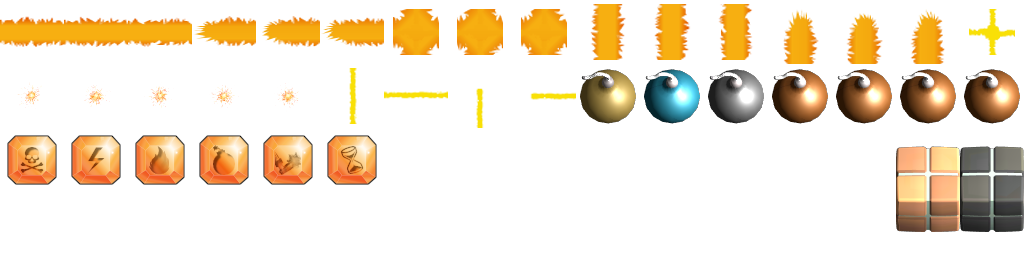
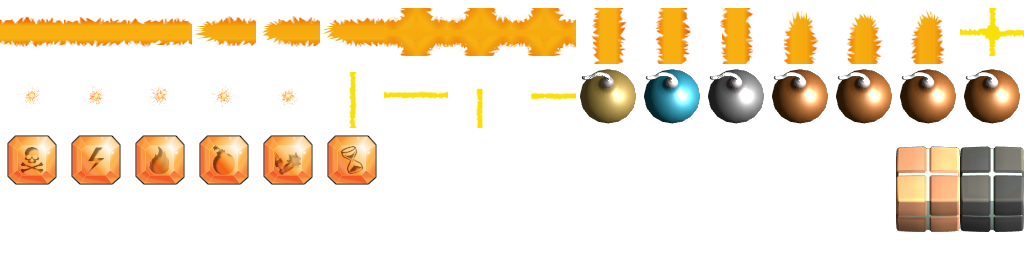
* BombLogic drawing part WIP;

Changed region(s): [[0.375, 0.0, 0.75, 0.25], [0.9375, 0.125, 1.0, 0.1562], [0.3438, 0.4688, 0.375, 0.5]]

diff --git a/src/BombLogic.cpp b/src/BombLogic.cpp
@@ -25,6 +25,12 @@ namespace {
 	inline const unsigned char Vertical = 3;
 	inline const unsigned char HorizontalEnd = 1;
 	inline const unsigned char VerticalEnd= 4;
+
+	inline const unsigned char MiddleCore = 15;
+	inline const unsigned char HorizontalCore = 22;
+	inline const unsigned char VerticalCore = 21;
+	inline const unsigned char HorizontalEndCore = 24;
+	inline const unsigned char VerticalEndCore = 23;
 }
 
 BombLogic::BombLogic(PlayGround& playGround, const unsigned texId)
@@ -50,15 +56,29 @@ void BombLogic::Update(float) {
 bool BombLogic::Draw(int posX, int posY, float deltaTime) {
 	auto base = m_blastAnimator.ComputeSpriteId(0, deltaTime);
 
-	posX = 32;
-	posY = 4;
+	posY += 18;
+
 	m_pAtlas->Draw(posX+64, posY, base + m_blastAnimator.GetAnimOffset(HorizontalEnd));
 	m_pAtlas->Draw(posX+128, posY, base + m_blastAnimator.GetAnimOffset(Horizontal));
 	m_pAtlas->Draw(posX+192, posY, base + m_blastAnimator.GetAnimOffset(Middle));
-	m_pAtlas->Draw(posX+256, posY, base + m_blastAnimator.GetAnimOffset(Vertical));
-	m_pAtlas->Draw(posX+320, posY+2, base + m_blastAnimator.GetAnimOffset(VerticalEnd));
-	m_pAtlas->Draw(posX+320, posY+61, base + m_blastAnimator.GetAnimOffset(Vertical));
-	m_pAtlas->Draw(posX+320, posY+112, base + m_blastAnimator.GetAnimOffset(Middle));
+	m_pAtlas->Draw(posX+256, posY, base + m_blastAnimator.GetAnimOffset(VerticalEnd));
+	m_pAtlas->Draw(posX+256, posY+56, base + m_blastAnimator.GetAnimOffset(Vertical));
+	m_pAtlas->Draw(posX+256, posY+112, base + m_blastAnimator.GetAnimOffset(Vertical));
+	m_pAtlas->Draw(posX+256, posY+168, base + m_blastAnimator.GetAnimOffset(Middle));
+	m_pAtlas->Draw(posX+256, posY+224, base + m_blastAnimator.GetAnimOffset(Vertical), 180.0);
+	m_pAtlas->Draw(posX+256, posY+280, base + m_blastAnimator.GetAnimOffset(Vertical), 180.0);
+	m_pAtlas->Draw(posX+256, posY+336, base + m_blastAnimator.GetAnimOffset(VerticalEnd), 180.0);
+
+	m_pAtlas->Draw(posX+64, posY, HorizontalEndCore);
+	m_pAtlas->Draw(posX+128, posY, HorizontalCore);
+	m_pAtlas->Draw(posX+192, posY, MiddleCore);
+	m_pAtlas->Draw(posX+256, posY, VerticalEndCore);
+	m_pAtlas->Draw(posX+256, posY+56, VerticalCore);
+	m_pAtlas->Draw(posX+256, posY+112, VerticalCore);
+	m_pAtlas->Draw(posX+256, posY+168, MiddleCore);
+	m_pAtlas->Draw(posX+256, posY+224, VerticalCore, 180.0);
+	m_pAtlas->Draw(posX+256, posY+280, VerticalCore, 180.0);
+	m_pAtlas->Draw(posX+256, posY+336, VerticalEndCore, 180.0);
 
 	return true;
 }
